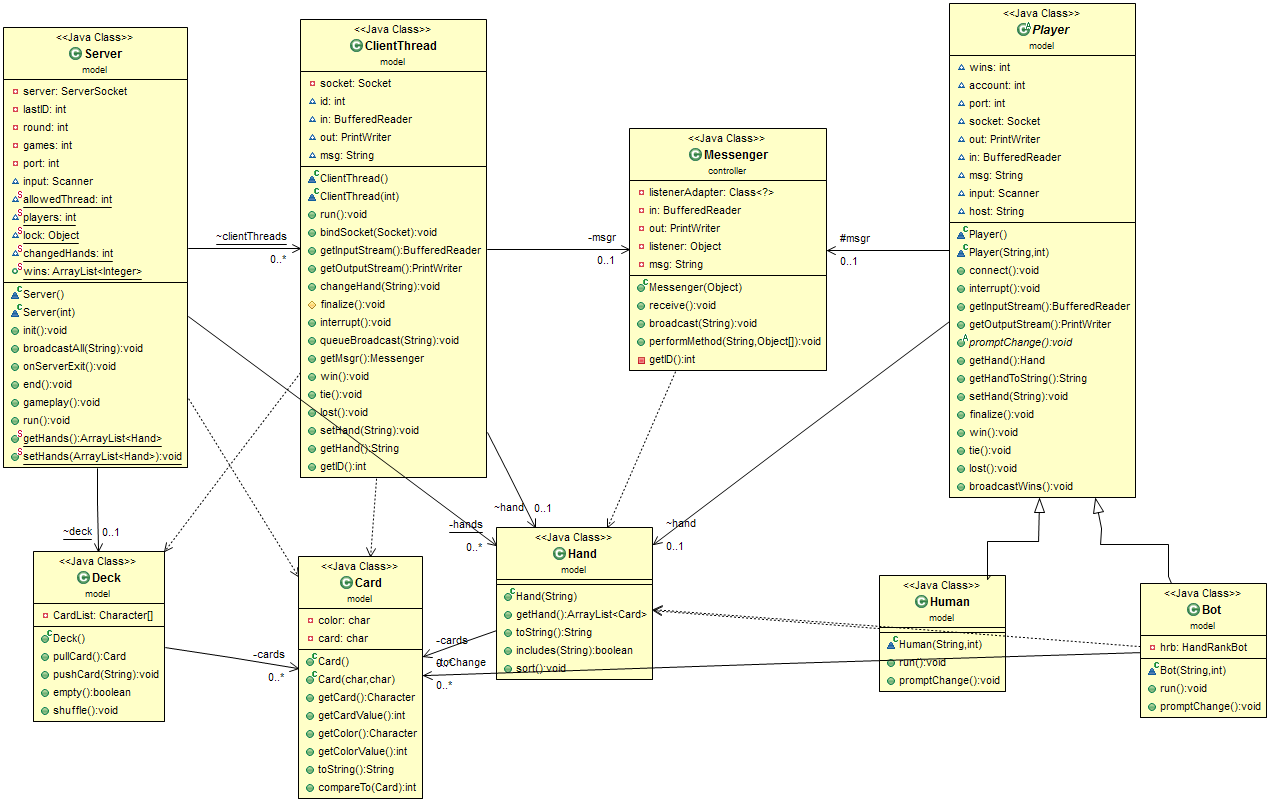
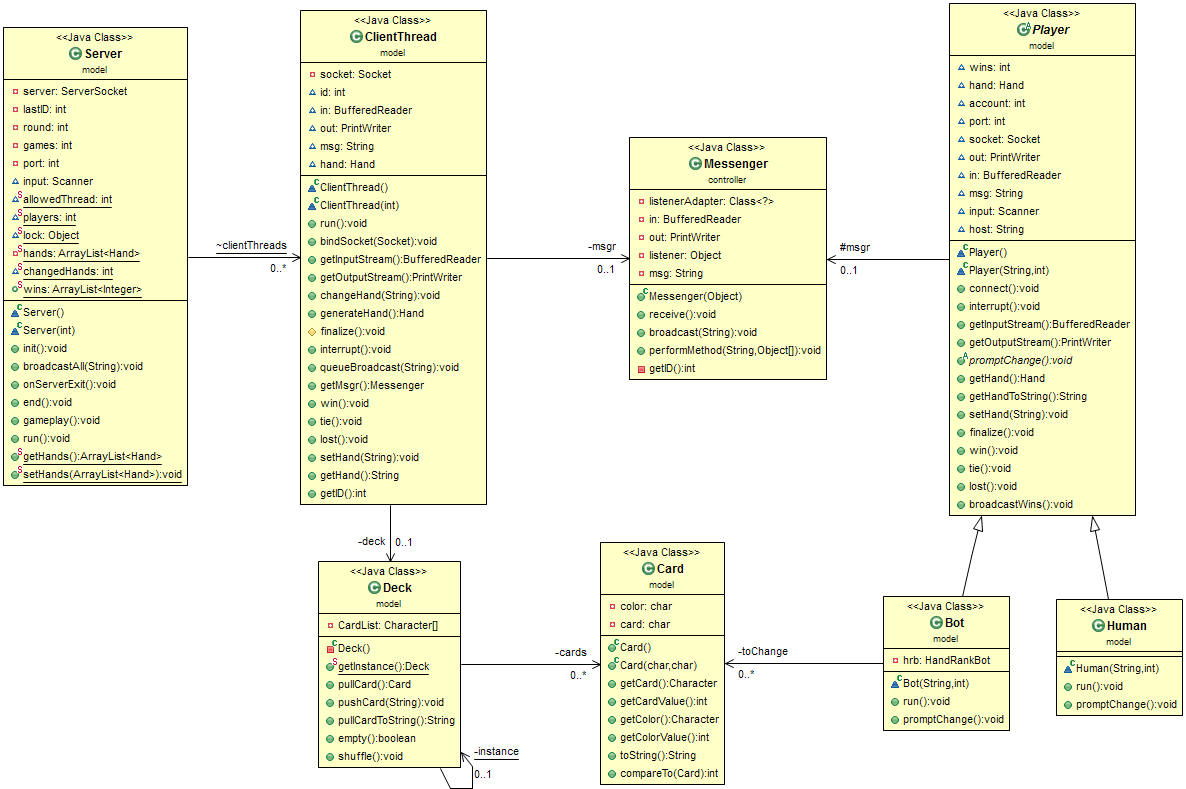
Deck is Singleton class from now on Deck is no longer stored directly in Server class Deck is accessed via ClientThread class on a server-side pullCardToString was implemented in Deck class Server now uses pullCardToString in order to follow Low-Coupling pattern UML scheme was updated

diff --git a/src/model/ClientThread.java b/src/model/ClientThread.java
@@ -19,6 +19,7 @@ public class ClientThread extends Thread {
     PrintWriter out = null;
     String msg = "";
     Hand hand;
+	private Deck deck;
     
     /**
      * Constructor for instantiation
@@ -31,6 +32,7 @@ public class ClientThread extends Thread {
      */
 	ClientThread(int id) {
 		this.id = id;
+		deck = Deck.getInstance();
 	}
 	
 	/**
@@ -95,17 +97,12 @@ public class ClientThread extends Thread {
     				if (arr[i].equals(arr[j])) {
 						changes++;
     					try {
-							Server.deck.pushCard(arr[i]);
+							deck.pushCard(arr[i]);
 						} catch (Exception e1) {
 							e1.printStackTrace();
 						}
-    					try {
-							arr[i] = Server.deck.pullCard().toString();
-						} catch (Exception e) {
-							// TODO Auto-generated catch block
-							e.printStackTrace();
-						}
-    				}
+						arr[i] = deck.pullCardToString();
+					}
     			}
     		}
     		
@@ -125,6 +122,27 @@ public class ClientThread extends Thread {
     		Server.lock.notifyAll();
     	}
     	Server.changedHands++;
+	}
+	
+	public Hand generateHand() throws Exception {
+		String cmd = "SETHAND";
+		 String handStr = "";
+		 //Pull 5 cards from deck 
+		 for (int i=0; i<5; i++) {
+			 try {
+				 handStr += deck.pullCardToString();
+			 }
+			 catch (Exception e) {
+				e.printStackTrace();
+			 }
+			 if (i!=4) handStr+="|";
+		 }
+		 
+
+		//Send Hand to player
+		cmd += "|"+handStr;
+		msgr.broadcast(cmd);
+		return new Hand(handStr);
 	}
 	
     @Override
@@ -192,7 +210,7 @@ public class ClientThread extends Thread {
 		hand.sort();
 		return hand.toString();
 	}
-	
+
 	public int getID() {
 		return id;
 	}

diff --git a/src/model/Server.java b/src/model/Server.java
@@ -18,7 +18,6 @@ public class Server extends Thread
 	Scanner input;
 	static int allowedThread=0, players=0;
 	static ArrayList<ClientThread> clientThreads;
-	static Deck deck;
 	static Object lock;
 	private static ArrayList<Hand> hands;
 	static int changedHands=0;
@@ -81,33 +80,20 @@ public class Server extends Thread
 		 changedHands = 0;
 		 allowedThread = 0;
 		 
-		 //Create the Deck
-		 deck = new Deck();
-		 deck.shuffle();
-		 
 		 //Give players their hands
 		 for (ClientThread currPlayer: clientThreads) {
-			 String cmd = "SETHAND";
-			 String handStr = "";
-			 //Pull 5 cards from deck 
-			 for (int i=0; i<5; i++) {
-				 try {
-					 handStr += deck.pullCard().toString();
-				 }
-				 catch (Exception e) {
-					e.printStackTrace();
-				 }
-				 if (i!=4) handStr+="|";
-			 }
-			 
-			 try {
-				getHands().set(currPlayer.id, new Hand(handStr));
-			 } catch (Exception e) {
+			Hand h = null;
+			try {
+				h = currPlayer.generateHand();
+			} catch (Exception e1) {
+				// TODO Auto-generated catch block
+				e1.printStackTrace();
+			}
+			try {
+				getHands().set(currPlayer.id, h);
+			} catch (Exception e) {
 				e.printStackTrace();
-			 }
-			 //Send Hand to player
-			 cmd += "|"+handStr;
-			 currPlayer.getMsgr().broadcast(cmd);
+			}
 		 }
 		 
 		 //Ask players if they want to change cards

diff --git a/src/test/DeckTest.java b/src/test/DeckTest.java
@@ -16,7 +16,7 @@ public class DeckTest
 	@Test
 	public void test()
 	{
-		testing = new Deck();
+		testing = Deck.getInstance();
 		
 		int cnt = 0;
 		while(!testing.empty())
@@ -36,7 +36,7 @@ public class DeckTest
 	@Test
 	public void pushpull() throws Exception
 	{
-		testing = new Deck();
+		testing = Deck.getInstance();
 		testing.pullCard();
 		testing.pushCard("D5");
 	}

diff --git a/src/model/Bot.java b/src/model/Bot.java
@@ -5,7 +5,7 @@ public class Bot extends Player
 {
 	private HandRankBot hrb;
 	private ArrayList<Card> toChange;
-	
+
 	Bot(String host, int port) {
 		super(host, port);
 	}
